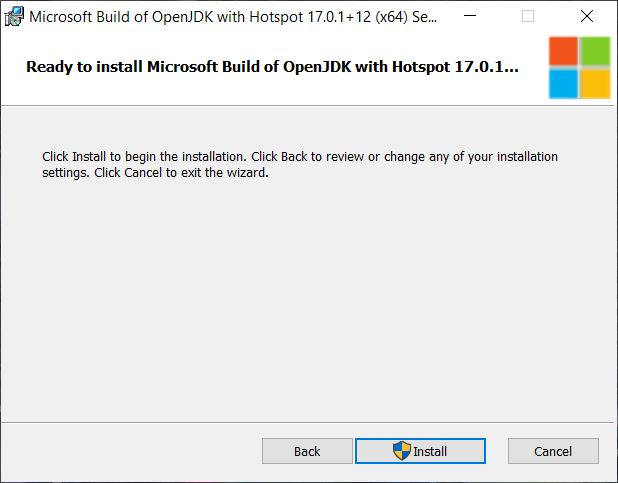
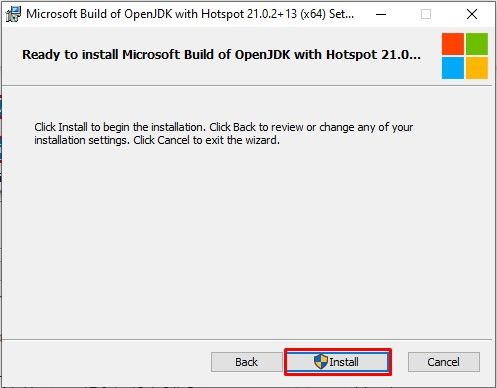
Java Δωρεάν Μαθήματα

diff --git a/java-unit1-jdk-installation.html b/java-unit1-jdk-installation.html
@@ -86,7 +86,8 @@
 							<!-- logo -->
 							<div class="logo">
 								<a href="index.html">
-									<img src="images/logo.png" alt="KASSAPOGLOU">
+									<!--<img src="images/logo.png" alt="KASSAPOGLOU">-->
+									<h1>KASSAPOGLOU</h1>
 								</a>
 							</div>
 						</div>
@@ -113,24 +114,25 @@
 												<li><a href="home3.html">Home 3</a></li>-->
 											<!--</ul> -->
 										</li>
-										<li class="dropdown">
-											<a href="https://kassapoglou.github.io/main/training-events.html" >ΠΡΟΓΡΑΜΜΑ</a>
+										<!--<li class="dropdown">
+											<a href="https://kassapoglou.github.io/main/training-events.html" >ΠΡΟΓΡΑΜΜΑ</a>-->
 											<!--<ul class="dropdown-menu"> -->
 												<!--<li><a href="courses-list.html">Course List</a></li>-->
 												<!--<li><a href="course-single.html">Course Single</a></li>-->
 										<!--	</ul> -->
-										</li>
+										<!--</li>-->
+									
 										<ul class="nav navbar-nav navbar-right main-navigation text-uppercase font-lato">
 											<li class="dropdown">
-												<a href="https://kassapoglou.github.io/main/course-list-all.html">ΜΑΘΗΜΑΤΑ</a>
-												<!-- <ul class="dropdown-menu"> -->
-													<!--<li><a href="home.html">Home</a></li>-->
-												<!--	<li><a href="home2.html">Home 2</a></li>
-													<li><a href="home3.html">Home 3</a></li>-->
+												<a href="#">PROGRAMMING</a>
+												 <ul class="dropdown-menu">
+													<li><a href="https://kassapoglou.github.io/csharp/csharp.html">C#</a></li>
+												<li><a href="https://kassapoglou.github.io/python/python.html">PYTHON</a></li>
+													<li><a href="https://kassapoglou.github.io/java/java-programming.html">JAVA</a></li>
 												<!--</ul> -->
-											</li>
+											<!--</li>-->
 											<li class="dropdown">
-												<a href="#" class="dropdown-toggle" data-toggle="dropdown" role="button" aria-haspopup="true" aria-expanded="false">ΧΟΡΗΓΟΙ</a>
+												<!--<a href="#" class="dropdown-toggle" data-toggle="dropdown" role="button" aria-haspopup="true" aria-expanded="false">ΧΟΡΗΓΟΙ</a>-->
 												<!--<ul class="dropdown-menu"> -->
 													<!--<li><a href="courses-list.html">Course List</a></li>-->
 													<!--<li><a href="course-single.html">Course Single</a></li>-->
@@ -144,7 +146,7 @@
 											<!--</ul>-->
 										</li> 
 										<li class="dropdown">
-											<a href="#" class="dropdown-toggle" data-toggle="dropdown" role="button" aria-haspopup="true" aria-expanded="false">ΤΕΧΝΟΛΟΓΙΑ</a>
+											<!--<a href="#" class="dropdown-toggle" data-toggle="dropdown" role="button" aria-haspopup="true" aria-expanded="false">ΤΕΧΝΟΛΟΓΙΑ</a>-->
 										<!--	<ul class="dropdown-menu">-->
 											<!--	<li><a href="404.html">404 Page</a></li>
 												<li><a href="about-us.html">About us</a></li>
@@ -155,13 +157,14 @@
 												<li><a href="login-register.html">Login &amp; Register</a></li> -->
 										<!--	</ul>-->
 										</li>
-										<li class="dropdown">
-											<a href="https://kassapoglou.github.io/main/contact.html" class="dropdown-toggle" data-toggle="dropdown" role="button" aria-haspopup="true" aria-expanded="false">ΕΠΙΚΟΙΝΩΝΙΑ</a>
+										
+										<!-- <li class="dropdown">
+											<a href="https://kassapoglou.github.io/main/contact.html" class="dropdown-toggle" data-toggle="dropdown" role="button" aria-haspopup="true" aria-expanded="false">ΕΠΙΚΟΙΝΩΝΙΑ</a> -->
 										<!--	<ul class="dropdown-menu">
 												<li><a href="blog.html">Blog List</a></li>
 												<li><a href="blog-single.html">Blog Single</a></li>
 											</ul> -->
-										</li>
+										<!-- </li> -->
 									<!--	<li class="dropdown">
 											<a href="#" class="dropdown-toggle" data-toggle="dropdown" role="button" aria-haspopup="true" aria-expanded="false">Shop</a>
 											<ul class="dropdown-menu">
@@ -173,6 +176,14 @@
 										</li>-->
 										
 									</ul>
+									<li class="dropdown">
+										<a href="#">WEB DEVELOPMENT</a>
+										<ul class="dropdown-menu">
+											<li><a href="https://kassapoglou.github.io/html_css/html_css.html">HTML & CSS</a></li>
+										<li><a href="https://kassapoglou.github.io/javascript/javascript-programming.html">JAVASCRIPT</a></li>
+											<!--<li><a href="home3.html">Home 3</a></li>-->
+										<!--</ul> -->
+									</li>
 								</div>
 					</div>
 				</div>
@@ -181,10 +192,10 @@
 		<!-- contain main informative part of the site -->
 		<main id="main">
 			<!-- heading banner -->
-			<header class="heading-banner text-white bgCover" style="background-image: url(images/A_Java6.jpeg);">
+			<header class="heading-banner text-white bgCover" style="background-image: url(images/java_banner2.jpg);">
 				<div class="container holder">
 					<div class="align">
-						<h1>JAVA + VS Code</h1>
+						<h1></h1>
 					</div>
 				</div>
 			</header>
@@ -194,7 +205,7 @@
 					<!-- breadcrumb -->
 					<ol class="breadcrumb">
 						<li><a href="https://kassapoglou.github.io/main/">ΑΡΧΙΚΗ</a></li>
-						<li><a href="https://kassapoglou.github.io/main/course-list-all.html">ΣΕΜΙΝΑΡΙΑ</a></li>
+						<!--<li><a href="https://kassapoglou.github.io/main/course-list-all.html">ΣΕΜΙΝΑΡΙΑ</a></li>-->
 						<li class="active"><a href="https://kassapoglou.github.io/java/java-programming.html">JAVA</a></li>
 					</ol>
 				</div>
@@ -205,7 +216,7 @@
 					<!-- content -->
 					<article id="content" class="col-xs-12 col-md-9">
 						<!-- content h1 -->
-						<h1 class="content-h1 fw-semi">ΕΝΟΤΗΤΑ 1 - MICROSOFT OpenJDK 17 AND VS CODE INSTALLATION</h1>
+						<h1 class="content-h1 fw-semi">ΕΝΟΤΗΤΑ 1 - MICROSOFT OpenJDK 21 AND VS CODE INSTALLATION</h1>
 						<!-- view header -->
 						<header class="view-header row">
 							<div class="col-xs-12 col-sm-9 d-flex">
@@ -304,9 +315,9 @@
 					<p></p>
 					<img src="java-unit1/java-unit1-9.jpg" alt="Δωρεάν Μαθήματα και Σεμινάρια JAVA" class="center">
 					<p></p>
-					<p>Επίσης έχει δηλωθεί αυτόματα και η "<strong>JAVA_HOME</strong>" παράμετρος στα "<strong>System Variables.</strong>".</p>
+					<!-- <p>Επίσης έχει δηλωθεί αυτόματα και η "<strong>JAVA_HOME</strong>" παράμετρος στα "<strong>System Variables.</strong>".</p>
 					<img src="java-unit1/java-unit1-10.jpg" alt="Δωρεάν Μαθήματα και Σεμινάρια JAVA" class="center">
-					<p></p>
+					<p></p> -->
 					<p>Όπως βλέπετε λοιπόν, όλα αυτά τα βήματα δεν χρειάζεται να τα κάνετε εσείς γιατί η διαδικάσια
 						της εγκατάστασης ήδη τα ολοκλήρωσε για εσάς.
 					</p>
@@ -328,16 +339,16 @@
 						βρει και να το καλέσει για να χτίσει το Java Project. Το πρώτο βήμα είναι να δημιουργήσουμε
 						μια καινούργια μεταβλητή στο "<strong>System variables</strong>" με το όνομα "<strong>M2_HOME</strong>".
 					</p>
-					<img src="java-unit1/java-unit1-13.JPG" alt="Δωρεάν Μαθήματα και Σεμινάρια JAVA" class="center">
+					<img src="java-unit1/java-unit1-13.JPG.jpg" alt="Δωρεάν Μαθήματα και Σεμινάρια JAVA" class="center">
 					<p></p>
 					<p>Αμέσως μετά είναι να κάνετε διπλό κλικ επάνω στο "<strong>Path</strong>" για να δηλώσετε το φάκελο
 					Bin του Apache Maven για να γνωρίζουν άλλα προγράμματα πως να το καλέσουν και να το εκτελέσουν.
 				    Στο παράθυρο που θα ανοίξει δημιουργήστε μια καινούργια μεταβλητή με το όνομα "<strong>%M2_HOME%\bin</strong>"</p>
-					<img src="java-unit1/java-unit1-14.JPG" alt="Δωρεάν Μαθήματα και Σεμινάρια JAVA" class="center">
+					<img src="java-unit1/java-unit1-14.JPG.jpg" alt="Δωρεάν Μαθήματα και Σεμινάρια JAVA" class="center">
 					<p></p>
 					<p>Αν τώρα ανοίξουμε ένα cmd terminal και εκτελέσουμε την εντολή "<strong>mvn -version</strong>" θα
 					πρέπει να δούμε την έκδοση του Apache Maven που έχουμε εκτελέσει.</p>
-					<img src="java-unit1/java-unit1-15.JPG" alt="Δωρεάν Μαθήματα και Σεμινάρια JAVA" class="center">
+					<img src="java-unit1/java-unit1-15.JPG.jpg" alt="Δωρεάν Μαθήματα και Σεμινάρια JAVA" class="center">
 					<p></p>
 					<h3 class="content-h3">ΕΓΚΑΤΑΣΤΑΣΗ ΤΟΥ VS CODE</h3>
 					<p>Το τελευταίο βήμα είναι να εγκαταστήσουμε το VS Studio. Αυτή θα είναι η πιο εύκολη διαδικασία γιατί
@@ -359,7 +370,7 @@
 						μια συλλογή από προγράμματα των οποίων οι λειτουργίες είναι απαραίτητες
 						σε κάθε κώδικα Java.
 					</p>
-					<img src="java-unit1/java-unit1-17.JPG" alt="Δωρεάν Μαθήματα και Σεμινάρια JAVA" class="center">
+					<img src="java-unit1/java-unit1-17.JPG.jpg" alt="Δωρεάν Μαθήματα και Σεμινάρια JAVA" class="center">
 					<p></p>
 					<p>Ακολουθώντας την ίδια ακριβώς διαδικασία μπορούμε να εγκαταστήσουμε όποια άλλα extensions 
 						νομίζουμε ότι μπορεί να μας είναι χρήσιμα. Για παράδειγμα, μπορείτε να ψάξετε για κάποιο
@@ -479,7 +490,7 @@
 						<!-- instructorInfoBox -->
 						<div class="instructorInfoBox">
 							<div class="alignleft">
-								<a href="#"><img src="michail.jpg" alt="Merry Jhonson"></a>
+								<a href="#"><img src="images/michail.png" alt="Merry Jhonson"></a>
 							</div>
 							<div class="description-wrap">
 								<h3 class="fw-normal"><a href="#"></a></h3>
@@ -551,12 +562,12 @@
 							<!-- widget cources list -->
 							<ul class="widget-cources-list list-unstyled">
 								<li>
-									<a href="https://kassapoglou.github.io/jakarta/jakartaee.html">
+									<a href="https://kassapoglou.github.io/python/python.html">
 										<div class="alignleft">
-											<img src="jakarta.png" alt="image description">
+											<img src="images/python.jpg" alt="image description">
 										</div>
 										<div class="description-wrap">
-											<h4>Εισαγωγή στην Java EE (Jakarta Enterprise)</h4>
+											<h4>Μαθαίνω Python Προγραμματισμό</h4>
 											<strong class="price text-primary element-block font-lato text-uppercase">ΔΩΡΕΑΝ</strong>
 										</div>
 									</a>
@@ -620,7 +631,7 @@
 					<aside class="aside container">
 						<div class="row">
 							<div class="col-xs-12 col-sm-6 col-md-3 col">
-								<div class="logo"><a href="home.html"><img src="images/logo.png" alt="studyLMS"></a></div>
+								<div class="logo"><a href="home.html"><img src="images/michail.png" alt="studyLMS"></a></div>
 								<p>Ο πρωταρχικός λόγος που με ώθησε στο να δημιουργήσω αυτή την ιστοσελίδα και να προσφέρω δωρεάν μαθήματα είναι γιατί πιστεύω ότι η γνώση, σε οποιοδήποτε επίπεδο, πρέπει να μεταδίδεται για να έχει αξία.</p>
 								<a href="#" class="btn btn-default text-uppercase">ΞΕΚΙΝΗΣΤΕ ΤΑ ΜΑΘΗΜΑΤΑ</a>
 							</div>
@@ -631,7 +642,7 @@
 									<li>
 										<a href="https://kassapoglou.github.io/python/python.html">
 											<div class="alignleft">
-												<img src="python.png" alt="Δωρεάν μαθήματα Python">
+												<img src="/images/python.jpg" alt="Δωρεάν μαθήματα Python">
 											</div>
 											<div class="description-wrap">
 												<h4>Μαθαίνω Python Προγραμματισμό</h4>
@@ -663,10 +674,10 @@
 									</li>
 								</ul>
 							</div>
-							<nav class="col-xs-12 col-sm-6 col-md-3 col">
-								<h3>ΣΥΝΔΕΣΜΟΙ</h3>
+							<!-- <nav class="col-xs-12 col-sm-6 col-md-3 col"> -->
+								<!-- <h3>ΣΥΝΔΕΣΜΟΙ</h3> -->
 								<!-- fooer navigation -->
-								<ul class="fooer-navigation list-unstyled">
+								<!-- <ul class="fooer-navigation list-unstyled">
 									<li><a href="https://kassapoglou.github.io/main/">ΑΡΧΙΚΗ</a></li>
 									<li><a href="#">ΠΡΟΓΡΑΜΜΑ</a></li>
 									<li><a href="#">ΜΑΘΗΜΑΤΑ</li>
@@ -674,8 +685,8 @@
 									<li><a href="#">ΤΕΧΝΟΛΟΓΙΑ</a></li>
 									<li><a href="#">ΕΠΙΚΟΙΝΩΝΙΑ</a></li>
 									
-								</ul>
-							</nav>
+								</ul> -->
+							<!-- </nav> -->
 							<div class="col-xs-12 col-sm-6 col-md-3 col">
 								<h3>ΕΠΙΚΟΙΝΩΝΙΑ</h3>
 								<p>Μπορείτε να επικοινωνήσετε μαζί μου με τους εξής τρόπους:</p>
